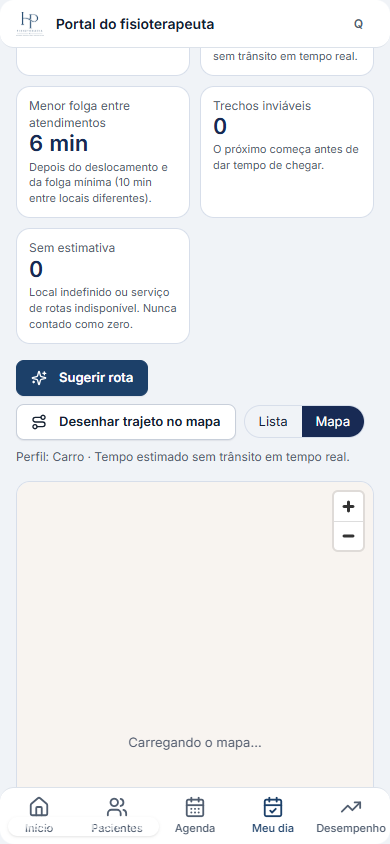
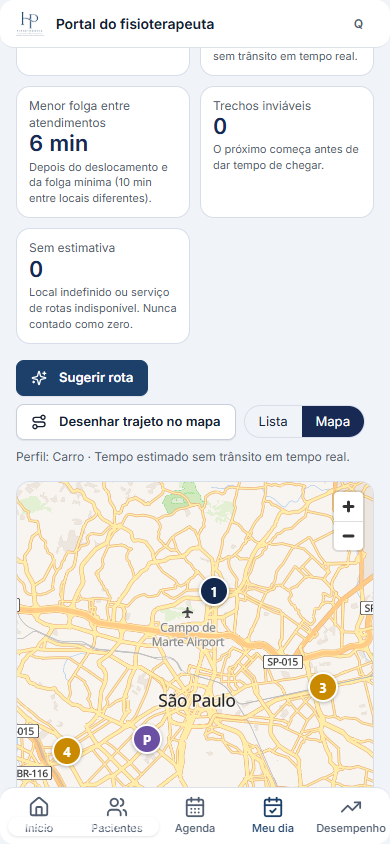
Rota: simulação Jan/Hugo no Dev, corrige quebra ao trocar de data com sugestão aberta
- RouteTab: sugestão e linha do trajeto ficam presas ao dia/profissional em que foram calculadas e são descartadas ao trocar (antes: tela em branco)
- Texto de trecho inviável: 'falta menos de 1 min' em vez de 'faltam 0 min'
- N35-2c: regressão da troca de data; N35 agora 13/13
- supabase/tools/rota-simulacao-jan-hugo.sql (+ limpar) e docs §13

Changed region(s): [[0.0308, 0.5545, 0.9538, 0.955], [0.1538, 0.5545, 0.2154, 0.5853]]

diff --git a/src/pages/admin/route/RouteTab.tsx b/src/pages/admin/route/RouteTab.tsx
@@ -1,4 +1,4 @@
-import { lazy, Suspense, useMemo, useState } from "react";
+import { lazy, Suspense, useEffect, useMemo, useState } from "react";
 import { useQuery, useQueryClient } from "@tanstack/react-query";
 import { Check, ClipboardList, Navigation, Route as RouteIcon, Settings2, Sparkles } from "lucide-react";
 import { supabase } from "@/lib/supabase";
@@ -20,8 +20,15 @@ const RouteTab = ({ professionalId, date, isManager }: { professionalId: string;
   const qc = useQueryClient(); const [msg, m] = useMsg();
   const q = useQuery({ queryKey: ["route-day", professionalId, date], enabled: !!professionalId, retry: false, queryFn: () => routeDay(professionalId, date) });
   const [view, setView] = useState<"lista" | "mapa">("lista");
-  const [sug, setSug] = useState<Suggestion | null>(null);
-  const [line, setLine] = useState<{ coords: [number, number][]; info: string } | null>(null);
+  // Sugestão e linha do trajeto valem só para o profissional e o dia em que foram calculadas: trocar de dia/agenda as descarta (antes, a sugestão antiga apontava para atendimentos de outro dia e quebrava a tela).
+  const ctx = `${professionalId}|${date}`;
+  const [sugRaw, setSugRaw] = useState<{ ctx: string; v: Suggestion } | null>(null);
+  const sug = sugRaw?.ctx === ctx ? sugRaw.v : null;
+  const setSug = (v: Suggestion | null) => setSugRaw(v ? { ctx, v } : null);
+  const [lineRaw, setLineRaw] = useState<{ ctx: string; v: { coords: [number, number][]; info: string } } | null>(null);
+  const line = lineRaw?.ctx === ctx ? lineRaw.v : null;
+  const setLine = (v: { coords: [number, number][]; info: string } | null) => setLineRaw(v ? { ctx, v } : null);
+  useEffect(() => { setSugRaw(null); setLineRaw(null); }, [ctx]);   // ao voltar a um dia anterior a sugestão não reaparece (a agenda pode ter mudado)
   const [busy, setBusy] = useState(false);
 
   const d = q.data?.day, mx = q.data?.matrix;
@@ -109,7 +116,7 @@ const RouteTab = ({ professionalId, date, isManager }: { professionalId: string;
             <p data-testid="route-suggestion-msg">{sug.message}</p>
             {sug.status === "improved" && sug.after && (<>
               <div className="overflow-x-auto"><table className="rt-diff" data-testid="route-diff"><thead><tr><th>Atendimento</th><th>Horário atual</th><th>Horário sugerido</th></tr></thead><tbody>
-                {sug.moves.map((mv) => { const a = calc.byId.get(mv.id)!; return <tr key={mv.id}><td>{a.person} <span className="rt-muted">· {a.service}</span></td><td>{fmtClock(mv.from, tz)}</td><td className="is-new">{fmtClock(mv.to, tz)}</td></tr>; })}</tbody></table></div>
+                {sug.moves.map((mv) => { const a = calc.byId.get(mv.id); if (!a) return null; return <tr key={mv.id}><td>{a.person} <span className="rt-muted">· {a.service}</span></td><td>{fmtClock(mv.from, tz)}</td><td className="is-new">{fmtClock(mv.to, tz)}</td></tr>; })}</tbody></table></div>
               <div className="rt-kpis"><div className="rt-kpi"><span>Deslocamento estimado</span><b>{Math.round(sug.before.travelS / 60)} → {Math.round(sug.after.travelS / 60)} min</b><small>antes → depois, só trechos com estimativa. {MSG_NO_TRAFFIC}</small></div>
                 <div className="rt-kpi"><span>Trechos inviáveis</span><b>{sug.before.infeasible} → {sug.after.infeasible}</b><small>antes → depois</small></div></div>
               <p className="rt-small rt-muted">Nenhum atendimento é encurtado. Confirmados, fixos, remotos e passados não se movem. A agenda só muda se você aplicar; o servidor revalida tudo antes.</p>
@@ -145,7 +152,7 @@ const StopItem = ({ s, i, a, tz, profile, onMode, first, startLabel }: { s: Stop
     if (s.verdict === "unknown") return { cls: "is-unknown", text: MSG_UNAVAILABLE };
     if (s.legKind === "none") return { cls: "", text: first ? "Ponto de partida não definido" : "—" };
     const base = s.legKind === "same" ? "Mesmo local" : `${fmtMinutes(s.legS)} de deslocamento${first && startLabel ? ` desde ${startLabel}` : ""}`;
-    if (s.verdict === "infeasible") return { cls: "is-bad", text: `${base} · Inviável: faltam ${mins(s.shortByMs)} min` };
+    if (s.verdict === "infeasible") return { cls: "is-bad", text: `${base} · Inviável: ${Math.ceil(s.shortByMs / MIN) <= 1 ? "falta menos de 1 min" : `faltam ${Math.ceil(s.shortByMs / MIN)} min`}` };
     if (s.verdict === "tight") return { cls: "is-tight", text: `${base} · folga curta (${mins(s.slackMs ?? 0)} min)` };
     return { cls: "", text: `${base}${s.slackMs !== null ? ` · folga ${mins(s.slackMs)} min` : ""}` };
   })();

diff --git a/e2e/novos/N35-rota-atendimentos.spec.ts b/e2e/novos/N35-rota-atendimentos.spec.ts
@@ -122,6 +122,18 @@ test.describe.serial("@novos Rota de atendimentos", () => {
     await shot(page, "rota-celular-mapa-real");
   });
 
+  test("N35-2c trocar de data com a sugestão aberta descarta a sugestão e não quebra a tela", async ({ page, context }) => {
+    const pageErrors: string[] = []; page.on("pageerror", (e) => pageErrors.push(e.message));
+    await loginAs(context, "qa.fisio@hp-test.dev"); await openRota(page, D1);
+    await page.getByTestId("route-suggest").click(); await expect(page.getByTestId("route-suggestion")).toBeVisible();
+    await page.locator("#pd-date").fill(D2);                                                              // outro dia, com outros atendimentos
+    await expect(page.getByTestId("route-stop").first()).toBeVisible({ timeout: 20_000 });
+    await expect(page.getByTestId("route-suggestion")).toHaveCount(0);                                     // a sugestão do dia anterior não vale para este
+    await page.locator("#pd-date").fill(D1); await expect(page.getByTestId("route-stop").first()).toBeVisible({ timeout: 20_000 });
+    await expect(page.getByTestId("route-suggestion")).toHaveCount(0);                                     // e não volta sozinha ao retornar
+    expect(pageErrors).toEqual([]);
+  });
+
   test("N35-3 simular mostra antes/depois e NÃO altera a agenda", async ({ page, context }) => {
     const before = JSON.stringify(await state());
     await loginAs(context, "qa.fisio@hp-test.dev"); await openRota(page, D1);

diff --git a/docs/mapas-e-rotas.md b/docs/mapas-e-rotas.md
@@ -133,3 +133,13 @@ Validação real parcial: matriz de tempos e geometria do trajeto (ORS) e mapa. 
 ## 12. Google Calendar (reaproveitado, sem mudança)
 
 A rota **não cria nem publica nada no Google**. Aplicar uma sugestão **move o próprio atendimento** de horário (mesmo id, mesmo paciente, mesmo pacote — nada de atendimento novo): a sincronização automática existente **atualiza o MESMO evento** (id determinístico por atendimento — impossível duplicar). O evento continua só com “Atendimento HP” + unidade (sem paciente por padrão, **sem endereço do paciente nem do profissional, sem dado clínico**). Mudar formato/local/horário fixo **não dispara sincronização** (o gatilho só observa `status`, `period` e `professional_id`; verificado no teste SQL N17). Simulações nunca chegam ao Google. **Não validado contra uma conta Google real nesta entrega** (depende da conexão OAuth de cada usuário).
+
+## 13. Simulação para teste manual: gestores que também atendem (Dev)
+
+Criada em 14/11/2026 para ver e editar à mão. **Somente Dev; pacientes fictícios** (“<nome> Simulação”), bairros reais de São Paulo (coordenadas de bairro) e tempos **reais** do ORS (ou do cache dele).
+
+* **Login:** `qa.manager@hp-test.dev` (papel gestor) — é o profissional **“Jan (simulação)”**. **“Hugo (simulação)”** não tem login: aparece no seletor “Agenda clínica de” (o gestor vê todas as agendas).
+* **Onde:** `/admin/meu-dia` → aba **Rota** (menu “Produtividade → Meu dia”). `/fisio/dia` é só do papel fisioterapeuta e o gestor não entra nele.
+* **Dias:** seg 16/11 (Jan: 7 atendimentos em zigue-zague — um confirmado, um com horário fixo, um remoto, um com local aproximado por CEP; Hugo: 5) e ter 17/11 (Jan: trecho apertado Itaim→Lapa, paciente sem local, atendimento na unidade, horários livres para “melhor encaixe”).
+* **Criar/recriar:** `supabase/tools/rota-simulacao-jan-hugo.sql` (idempotente). **Remover tudo:** `supabase/tools/rota-simulacao-limpar.sql`. Rodar só no Dev.
+* Ao testar “Aplicar na agenda”, a simulação muda de fato (é o mesmo atendimento em outro horário); para voltar ao estado inicial, rode de novo o script de criação.
